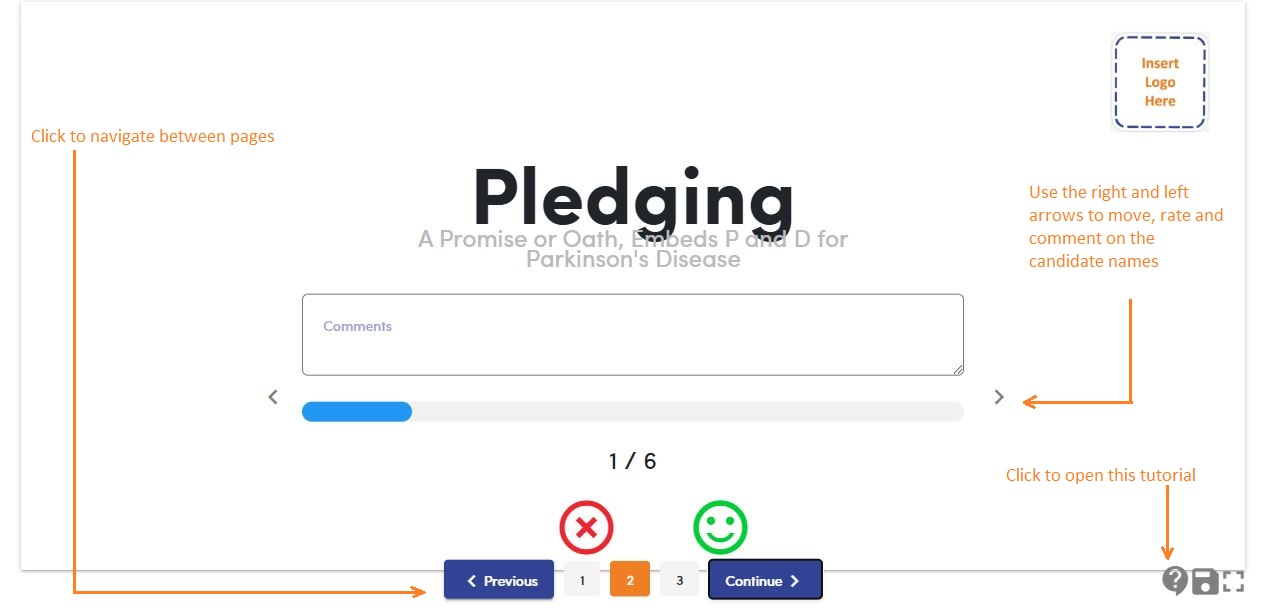
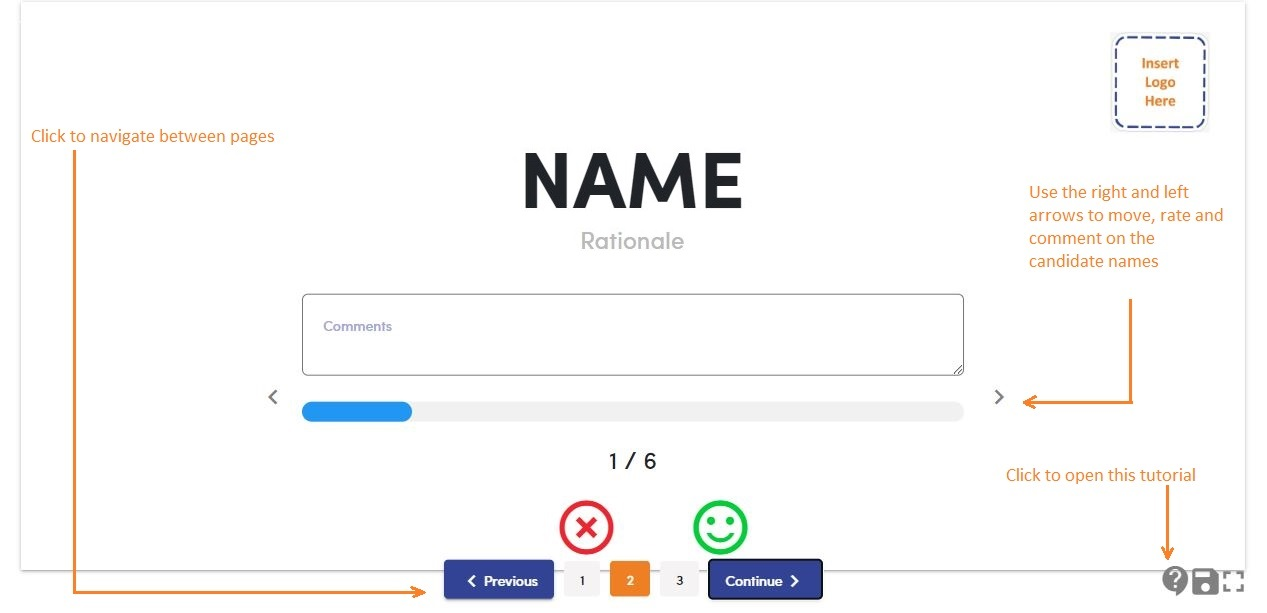
restriccion solo encuesta

Changed region(s): [[0.3078, 0.248, 0.6772, 0.4339]]

diff --git a/src/app/bmx/bmx-creator/survey-creation-design/templates/tinder/tinder.component.html b/src/app/bmx/bmx-creator/survey-creation-design/templates/tinder/tinder.component.html
@@ -158,13 +158,17 @@
                         class="full-icon">sentiment_satisfied_alt</mat-icon>
                 </div>
             </div>
-            <mat-icon *ngIf="hasVoted; else noHasVoted" (click)="moveRight(bmxItem.componentText[testNameIndex].nameCandidates)" style="font-size: 30px;color: grey;cursor: pointer;" class="full-icon">
+            <mat-icon *ngIf="survey==false; else isSurvey" (click)="moveRight(bmxItem.componentText[testNameIndex].nameCandidates)" style="font-size: 30px;color: grey;cursor: pointer;" class="full-icon">
                 chevron_right
             </mat-icon>
-            <ng-template #noHasVoted><mat-icon style="font-size: 30px;color: grey" class="full-icon">
-                    chevron_right</mat-icon>
+            <ng-template #isSurvey>
+                <mat-icon *ngIf="hasVoted; else noHasVoted" (click)="moveRight(bmxItem.componentText[testNameIndex].nameCandidates)" style="font-size: 30px;color: grey;cursor: pointer;" class="full-icon">
+                    chevron_right
+                </mat-icon>
+                <ng-template #noHasVoted><mat-icon style="font-size: 30px;color: grey" class="full-icon">
+                        chevron_right</mat-icon>
+                </ng-template>
             </ng-template>
-
         </div>
     </div>
 </div>

diff --git a/src/app/bmx/bmx-creator/survey-creation-design/templates/tinder/tinder.component.ts b/src/app/bmx/bmx-creator/survey-creation-design/templates/tinder/tinder.component.ts
@@ -34,8 +34,9 @@ export class TinderComponent extends RatingScaleComponent implements OnInit {
   @Input() i;
   @Input() bmxClientPageDesignMode;
   @Input() bmxClientPageOverview;
+  @Input() survey;
 
-  @Output() launchPathModal = new EventEmitter();
+  @Output() launchPathModal = new EventEmitter(); 
 
   PATH1: any[] = [
     'assets/img/bmx/tutorial/tutorial-tinder1.JPG',
@@ -60,7 +61,8 @@ export class TinderComponent extends RatingScaleComponent implements OnInit {
 
   }
   ngOnInit(): void {
-    this.getDataSource()    
+    this.getDataSource()
+    this.dataSource[0].vote != undefined?this.hasVoted = true:this.hasVoted = false
     this.xpercent = 100 / (this.bmxItem.componentText.length - 1);
     this.value = this.xpercent;
     this.rankingScaleValue = this.bmxItem.componentSettings[0].selectedRanking

diff --git a/src/app/bmx/bmx-creator/survey-matrix/survey-matrix.component.html b/src/app/bmx/bmx-creator/survey-matrix/survey-matrix.component.html
@@ -211,7 +211,7 @@
                             <mat-icon style="font-size: 17px;">cancel</mat-icon>
                         </button>
                     </div>
-                    <app-tinder [bmxItem]="bmxItem" [i]="i" [bmxClientPageDesignMode]="bmxClientPageDesignMode" (launchPathModal)="setPath($event)"
+                    <app-tinder [bmxItem]="bmxItem" [i]="i" [bmxClientPageDesignMode]="bmxClientPageDesignMode" (launchPathModal)="setPath($event)" [survey]="true"
                         [bmxClientPageOverview]="bmxClientPageOverview"></app-tinder>
                 </div>
                 <!-- END TINDER  🔥🔥🔥🔥🔥🔥🔥🔥🔥🔥🔥🔥🔥🔥🔥🔥🔥🔥🔥🔥🔥🔥🔥🔥🔥🔥🔥🔥🔥🔥🔥🔥🔥🔥🔥🔥🔥🔥🔥🔥🔥🔥🔥🔥🔥🔥 -->

diff --git a/src/app/bmx/bmx-creator/survey-creation-design/survey-creation-design.component.html b/src/app/bmx/bmx-creator/survey-creation-design/survey-creation-design.component.html
@@ -159,7 +159,7 @@
                         <mat-icon style="font-size: 17px;">cancel</mat-icon>
                     </button>
                 </div>
-                <app-tinder [bmxItem]="bmxItem" [i]="i" [bmxClientPageDesignMode]="bmxClientPageDesignMode"
+                <app-tinder [bmxItem]="bmxItem" [i]="i" [bmxClientPageDesignMode]="bmxClientPageDesignMode" [survey]="false"
                     [bmxClientPageOverview]="bmxClientPageOverview"></app-tinder>
             </div>
             <!-- END TINDER  🔥🔥🔥🔥🔥🔥🔥🔥🔥🔥🔥🔥🔥🔥🔥🔥🔥🔥🔥🔥🔥🔥🔥🔥🔥🔥🔥🔥🔥🔥🔥🔥🔥🔥🔥🔥🔥🔥🔥🔥🔥🔥🔥🔥🔥🔥 -->

diff --git a/src/app/bmx/bmx-creator/survey-creation-design/survey-creation-design.component.ts b/src/app/bmx/bmx-creator/survey-creation-design/survey-creation-design.component.ts
@@ -23,6 +23,7 @@ export class SurveyCreationDesignComponent implements OnInit {
     @Input() isMenuActive11;
     @Input() bmxClientPageDesignMode;
     @Input() bmxClientPageOverview;
+    
     isMobile = true
     @Input() isBrandMatrixSurvey
     @ViewChild('canvas', { static: true }) canvas: ElementRef;
@@ -109,7 +110,7 @@ export class SurveyCreationDesignComponent implements OnInit {
     biUsername: string;
     biUserId = 'user@bi.com';
 
-    UNDO = []
+    UNDO = [] 
 
     constructor(
         @Inject(DOCUMENT) private document: any,
